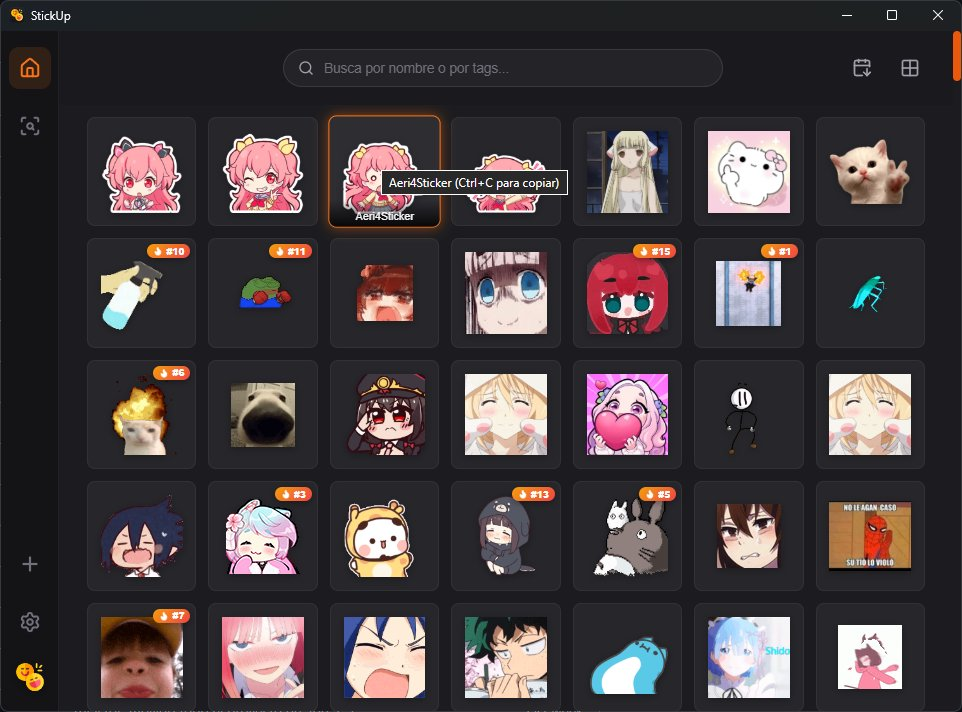
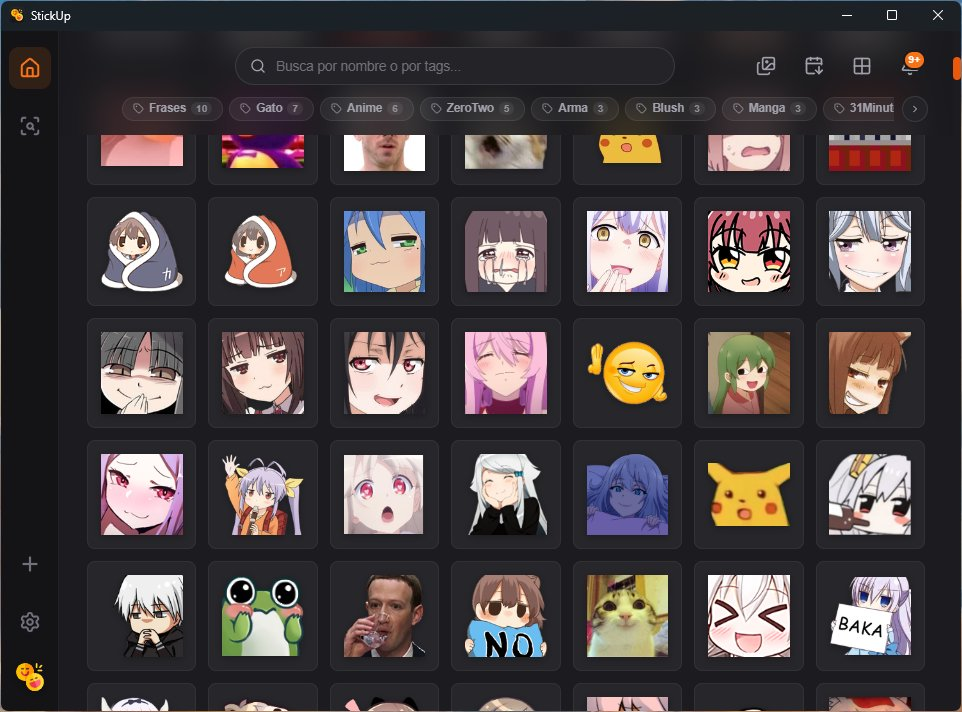
docs: update README and add application screenshots

diff --git a/README.md b/README.md
@@ -5,7 +5,7 @@
 </p>
 
 <p align="center">
-  <strong>El gestor de emotes y stickers definitivo para tu escritorio: rápido, ligero y multiplataforma.</strong><br>
+  <strong>Gestor nativo de emotes y stickers para escritorio: rápido, ligero y enfocado en la productividad.</strong><br>
   Construido con <strong>Tauri 2 (Rust)</strong>, <strong>SvelteKit 5 (TypeScript)</strong> y <strong>SQLite</strong>.
 </p>
 
@@ -20,81 +20,71 @@
 
 ---
 
-**StickUp** te permite centralizar, organizar, escanear, optimizar y copiar tu colección de emotes y stickers directamente al portapapeles nativo para pegarlos al instante en **Discord, Telegram, WhatsApp Web, Slack** y cualquier otra aplicación, sin depender de suscripciones ni servidores externos.
+**StickUp** centraliza tu biblioteca de emotes, stickers y memes, permitiéndote recortar fondos con IA local, redimensionar al vuelo y copiar en formato nativo al portapapeles para pegarlos de inmediato en **Discord, Telegram, WhatsApp Web, Slack** y cualquier otra aplicación, sin suscripciones ni dependencias en la nube.
 
 ---
 
 ## 📸 Capturas de Pantalla
 
-| Galería y Copia Instantánea | Detalle y Redimensionamiento al Vuelo |
+| Galería y Filtros por Etiquetas | Detalle y Redimensionamiento al Vuelo |
 | :---: | :---: |
-| ![Galería de Emotes de StickUp](docs/screenshots/gallery.jpg) | ![Detalle del Emote y Opciones de Redimensionamiento](docs/screenshots/detail.jpg) |
+| ![Galería de Emotes de StickUp](docs/screenshots/gallery.jpg) | ![Detalle del Emote y Opciones de Conversión](docs/screenshots/detail.jpg) |
 
-| Escáner Web & HTML en Acción | Configuración y Sistema de Respaldos |
+| Recorte de Fondo con IA Local | Escáner Web y Colector DOM en Vivo |
 | :---: | :---: |
-| ![Escáner Web y HTML de StickUp](docs/screenshots/scanner.png) | ![Configuración y Respaldos en StickUp](docs/screenshots/settings.png) |
+| ![Eliminar fondo con IA Local](docs/screenshots/ai-remover.jpg) | ![Escáner Web y Colector DOM](docs/screenshots/scanner.png) |
+
+<p align="center">
+  <strong>Configuración global, notificaciones y atajos</strong><br>
+  <img src="docs/screenshots/settings.png" alt="Configuración de StickUp" width="85%" />
+</p>
 
 ---
 
-## ✨ Características Principales
+## ⚡ Características Principales
 
-### 🖼 Galería Reactiva y Búsqueda Instantánea
-- **Búsqueda en tiempo real**: Encuentra emotes en milisegundos escribiendo parte de su nombre o filtrando por etiquetas (`tags`).
-- **Insignias de popularidad dinámica**:
-  - **🔥 Top #1–20**: Destaca automáticamente los emotes más utilizados según su frecuencia de copia e interacción.
-  - **🍃 Nuevos**: Identifica al instante los añadidos en las últimas 24 horas.
-- **Portapapeles con un clic**: Posiciona el cursor o pulsa `Ctrl+C` para copiar de inmediato en el formato nativo óptimo.
-- **Visualización flexible**: Ajuste dinámico del tamaño de la cuadrícula y ordenación por fecha, popularidad o nombre.
+### 🧠 Recorte de Fondo con IA Local
+- **100% privado y offline**: Procesa las imágenes localmente mediante redes neuronales (RMBG) sin enviar datos a servidores externos.
+- **Control de tolerancia y temperatura**: Ajusta la sensibilidad de corte (de firme a suave) según la complejidad del borde.
+- **Previsualización interactiva**: Slider en tiempo real para comparar el original contra el resultado sin fondo antes de guardar como copia o reemplazar.
 
-### 🌐 Escáner Inteligente Web & HTML
-- **Escaneo directo por URL**: Introduce la dirección de cualquier página, foro o galería para extraer todas las imágenes candidatas.
-- **Carga de HTML manual**: Pega código HTML o sube archivos `.html` / `.htm` con resolución automática de rutas relativas mediante URL base.
-- **Detección inteligente de CDNs (especial Discord)**: Detecta automáticamente si un emote es estático (WebP/PNG) o animado (GIF) según reglas de URLs, prefijos (`a_`) y parámetros (`animated=true`), descargando siempre la máxima calidad disponible.
-- **Importación por lotes**: Previsualiza las imágenes encontradas, edita sus nombres sugeridos, selecciona múltiples elementos y guárdalos en masa en tu colección.
+### 📋 Portapapeles Nativo Instantáneo
+- **Integración nativa profunda**: Soporte Win32 `CF_HDROP` y tipos MIME nativos en Windows; `wl-clipboard` / `xclip` en Linux.
+- **Pegado universal**: Pega directamente con `Ctrl+V` como archivo o imagen enriquecida en **Discord, Telegram, WhatsApp, Slack** y exploradores de archivos.
+- **Gestión inteligente de animaciones**: Preserva transparencia y animación multifotograma (GIF / WebP animado) sin congelar el primer cuadro.
 
-### 📋 Portapapeles Nativo Multiplataforma
-- **Windows (Win32 API nativo)**:
-  - Inyecta `CF_HDROP` con el archivo procesado para pegado directo e instantáneo en **Discord, Telegram, WhatsApp Web, Slack y el Explorador de Windows**.
-  - Soporte de tipos MIME nativos (`image/gif`, `image/webp`, `PNG`) y `CF_DIB` para editores de imagen.
-  - Gestión inteligente de GIFs: omite `CF_DIB` en animaciones para evitar que las apps de mensajería congelen el primer fotograma.
-- **Linux**: Soporte nativo para **Wayland** (`wl-clipboard` / `text/uri-list`) y **X11** (`xclip` con tipos MIME).
-- **Multiplataforma lista**: Diseñado con abstracciones modulares desacopladas de portapapeles.
+### 🖼 Galería Rápida y Búsqueda por Etiquetas
+- **Filtrado ultra-rápido**: Encuentra cualquier emote en milisegundos por nombre o navegando por chips interactivos de tags.
+- **Telemetría y popularidad**: Destaca los emotes más usados (Top #1–20) e identifica las incorporaciones recientes (últimas 24 h).
+- **Copia ágil**: Haz clic o presiona `Ctrl+C` sobre cualquier elemento para copiarlo al instante.
 
-### 💾 Almacenamiento Configurable y Sistema de Respaldos
-- **Ubicación de biblioteca personalizada**: Elige libremente la carpeta donde almacenar tus emotes y la base de datos SQLite (`.store.db`), con migración y fusión automática de registros.
-- **Copias de seguridad locales automáticas y manuales**:
-  - Copias rápidas de base de datos con un clic.
-  - **Rotación automática** con límite configurable (hasta 15 copias históricas).
-  - **Respaldos preventivos automáticos**: StickUp crea un backup de seguridad antes de aplicar migraciones de esquema de base de datos (`pre_upgrade`).
-  - Lista detallada con conteo de emotes, fechas, tamaños y restauración/eliminación individual.
-- **Exportación e Importación**: Guarda tus copias en cualquier destino externo o restaura archivos de backup existentes con validación previa de integridad.
+### 📐 Conversión y Redimensionamiento al Vuelo
+- **Presets de tamaño estándar**: Escala con un clic a `Original`, `48×48`, `64×64`, `128×128`, `256×256`, `512×512` o dimensiones personalizadas mediante remuestreo `Lanczos3`.
+- **Selector de formato dinámico**: Elige entre `WebP`, `PNG` y `JPG` antes de copiar.
+- **Métricas de optimización en vivo**: Visualiza al instante la reducción de píxeles y el ahorro de peso (KB) respecto al archivo original.
 
-### 📐 Optimización, Conversión y Redimensionamiento al Vuelo
-- **Modal de detalle e información rápida**: Inspecciona resolución, peso, formato original, ubicación del archivo y estadísticas de uso en tiempo real (contador de copias, interacciones e insignia de novedad).
-- **Conversión inteligente de formatos**:
-  - Convierte imágenes estáticas (`PNG`, `JPG`, `JPEG`) a `.webp` de alta compresión.
-  - Detecta `.webp` animados multifotograma y los transforma en `.gif` compatibles con chats.
-  - Preserva intactos los bucles, tiempos de retardo (`delay`) y transparencias en animaciones.
-- **Presets de tamaño rápidos y dimensiones personalizadas**: Escala a `Original`, `48×48`, `64×64`, `128×128`, `256×256`, `512×512` o define un tamaño personalizado con filtro de calidad `Lanczos3`.
-- **Selector de formato al copiar**: Cambia al instante entre `WebP`, `PNG` y `JPG` antes de copiar con `Ctrl+C`.
-- **Previsualización de peso**: Muestra en tiempo real el tamaño estimado del archivo y el porcentaje de ahorro antes de exportar o copiar.
+### 🌐 Escáner Web y Colector DOM en Vivo
+- **Bookmarklet interactivo**: Captura emotes en tiempo real mientras navegas por Twitch, 7TV o Discord, conservando capas transparentes y animaciones.
+- **Extracción por URL o código HTML**: Analiza enlaces directos o fragmentos HTML para detectar y descargar paquetes completos de imágenes.
+- **Detección de CDNs**: Reconoce variantes estáticas y animadas para descargar siempre la máxima resolución disponible.
 
-### ⚙ Integración con el Sistema Operativo y Productividad
-- **Atajo de teclado global**: Invoca la ventana de StickUp desde cualquier aplicación con una combinación de teclas configurable.
-- **Bandeja del sistema (System Tray)**: Minimiza la aplicación al área de notificación para mantenerla siempre accesible sin ocupar espacio en la barra de tareas.
-- **Inicio con el sistema**: Opción de inicio automático en segundo plano al encender el equipo.
+### 🚀 Acceso Rápido y Flujo de Trabajo
+- **Atajo global configurable**: Invoca u oculta la ventana principal desde cualquier aplicación (por defecto `Win + Ctrl + .`).
+- **Bandeja del sistema (System Tray)**: Permanece en segundo plano con consumo mínimo de recursos.
+- **Respaldos y base de datos local**: Almacenamiento SQLite persistente con backups automáticos rotativos e importación/exportación con validación de integridad.
 
 ---
 
 ## 🛠 Stack Tecnológico
 
-| Capa | Tecnología | Propósito |
+| Capa | Tecnología | Función |
 | :--- | :--- | :--- |
-| **Core / Backend** | **Rust** + **Tauri 2** | Procesamiento de imágenes de alto rendimiento, portapapeles nativo Win32/Linux e IPC seguro |
-| **Base de Datos** | **SQLite** (`rusqlite` bundled) | Almacenamiento local ACID, metadatos, tags, telemetría y rotación de copias de seguridad |
-| **Motor Gráfico** | `image` (`webp`, `gif`, `png`, `jpeg`) | Decodificación y codificación multifotograma, re-escalado `Lanczos3` y optimizaciones |
-| **Frontend** | **SvelteKit 5** + **TypeScript** + **Vite 6** | UI moderna reactiva, fluida y altamente accesible |
-| **Testing & CI** | `cargo test` + **Vitest** + `svelte-check` | Cobertura integral: tests unitarios en Rust, tests frontend y tipado estricto |
+| **Backend & Core** | **Rust** + **Tauri 2** | Rendimiento nativo, gestión de procesos IPC y portapapeles nativo Win32/Linux |
+| **Motor de IA Local** | Modelo neuronal RMBG / ONNX | Segmentación y eliminación de fondos acelerada por CPU/GPU local |
+| **Procesamiento de Imagen** | `image` (`webp`, `gif`, `png`, `jpeg`) | Decodificación multifotograma, reescalado con filtro `Lanczos3` y compresión |
+| **Base de Datos** | **SQLite** (`rusqlite`) | Persistencia de metadatos, tags, estadísticas de uso y control transaccional |
+| **Frontend** | **SvelteKit 5** + **TypeScript** + **Vite 6** | Interfaz reactiva fluida, accesible y con componentes modulares |
+| **Iconografía** | **Lucide Icons** (`@lucide/svelte`) | Sistema visual coherente y liviano |
 
 ---
 
@@ -102,57 +92,51 @@
 
 ### Requisitos Previos
 
-1. **Rust** (edición 2021, canal estable) mediante [rustup](https://rustup.rs/).
-2. **Node.js** (v18+) y **pnpm** (o `npm`).
-3. **Dependencias del sistema para Tauri 2**:
-   - **Windows**: Microsoft Visual Studio C++ Build Tools y WebView2 (incluido por defecto en Windows 10/11).
-   - **Linux**: Paquetes de desarrollo de `webkit2gtk-4.1`, `libayatana-appindicator` y `wl-clipboard` (Wayland) o `xclip` (X11).
+- **Rust** (versión estable, edición 2021) vía [rustup.rs](https://rustup.rs/).
+- **Node.js** (v18+) y gestor de paquetes **pnpm** (recomendado).
+- **Herramientas de compilación de Tauri 2**:
+  - **Windows**: Visual Studio C++ Build Tools y WebView2.
+  - **Linux**: Bibliotecas de desarrollo `webkit2gtk-4.1`, `libayatana-appindicator` y `wl-clipboard` (Wayland) o `xclip` (X11).
 
-### Ejecución en Modo Desarrollo
+### Modo Desarrollo
 
 ```bash
-# 1. Instalar dependencias del frontend
+# 1. Instalar dependencias
 pnpm install
 
-# 2. Iniciar la aplicación en modo desarrollo (Hot Reload frontend + Tauri)
+# 2. Iniciar en modo desarrollo con Hot-Reload
 pnpm tauri dev
 ```
 
-### Compilación para Producción
+### Compilar para Producción
 
 ```bash
-# Valida la suite y genera el instalador nativo (.msi / .exe en Windows, .deb / AppImage en Linux)
+# Genera el instalador nativo (.msi / .exe en Windows, .deb / AppImage en Linux)
 pnpm tauri build
 ```
 
 ---
 
-## 🧪 Verificación y Metodología de Desarrollo (ODD)
+## 🧪 Verificación de Calidad (ODD)
 
-El proyecto sigue la metodología **Organic Driven Development (ODD)** (`Explore → Plan → Implement → Verify`), manteniendo **Zero Dead Code** y aplicando **TDD (`RED → GREEN → REFACTOR`)** en la lógica crítica de negocio.
+El proyecto se desarrolla bajo la metodología **Organic Driven Development (ODD)** garantizando cero código muerto (*Zero Dead Code*) y tipado estricto.
 
-Para ejecutar la verificación completa antes de compilar:
+Ejecutar la suite completa de verificación antes de compilar:
 
 ```bash
-# Ejecutar verificación completa (svelte-check, Vitest, build de Vite y cargo test)
 pnpm run prebuild
 ```
 
-O paso a paso de forma independiente:
+O verificar módulos de forma individual:
 
 ```bash
-# Validación de tipos en Svelte y TypeScript
-pnpm run check
-
-# Pruebas unitarias de frontend
-pnpm run test
-
-# Pruebas unitarias del backend en Rust
-cargo test --manifest-path src-tauri/Cargo.toml
+pnpm run check    # Verificación de tipos TypeScript y Svelte
+pnpm run test     # Tests unitarios de frontend con Vitest
+cargo test        # Tests del backend en Rust (src-tauri)
 ```
 
 ---
 
 ## 📄 Licencia
 
-Distribuido bajo la licencia **MIT**. Creado por [FrovaHappy](https://github.com/FrovaHappy).
+Distribuido bajo la licencia **MIT**. Desarrollado por [FrovaHappy](https://github.com/FrovaHappy).
